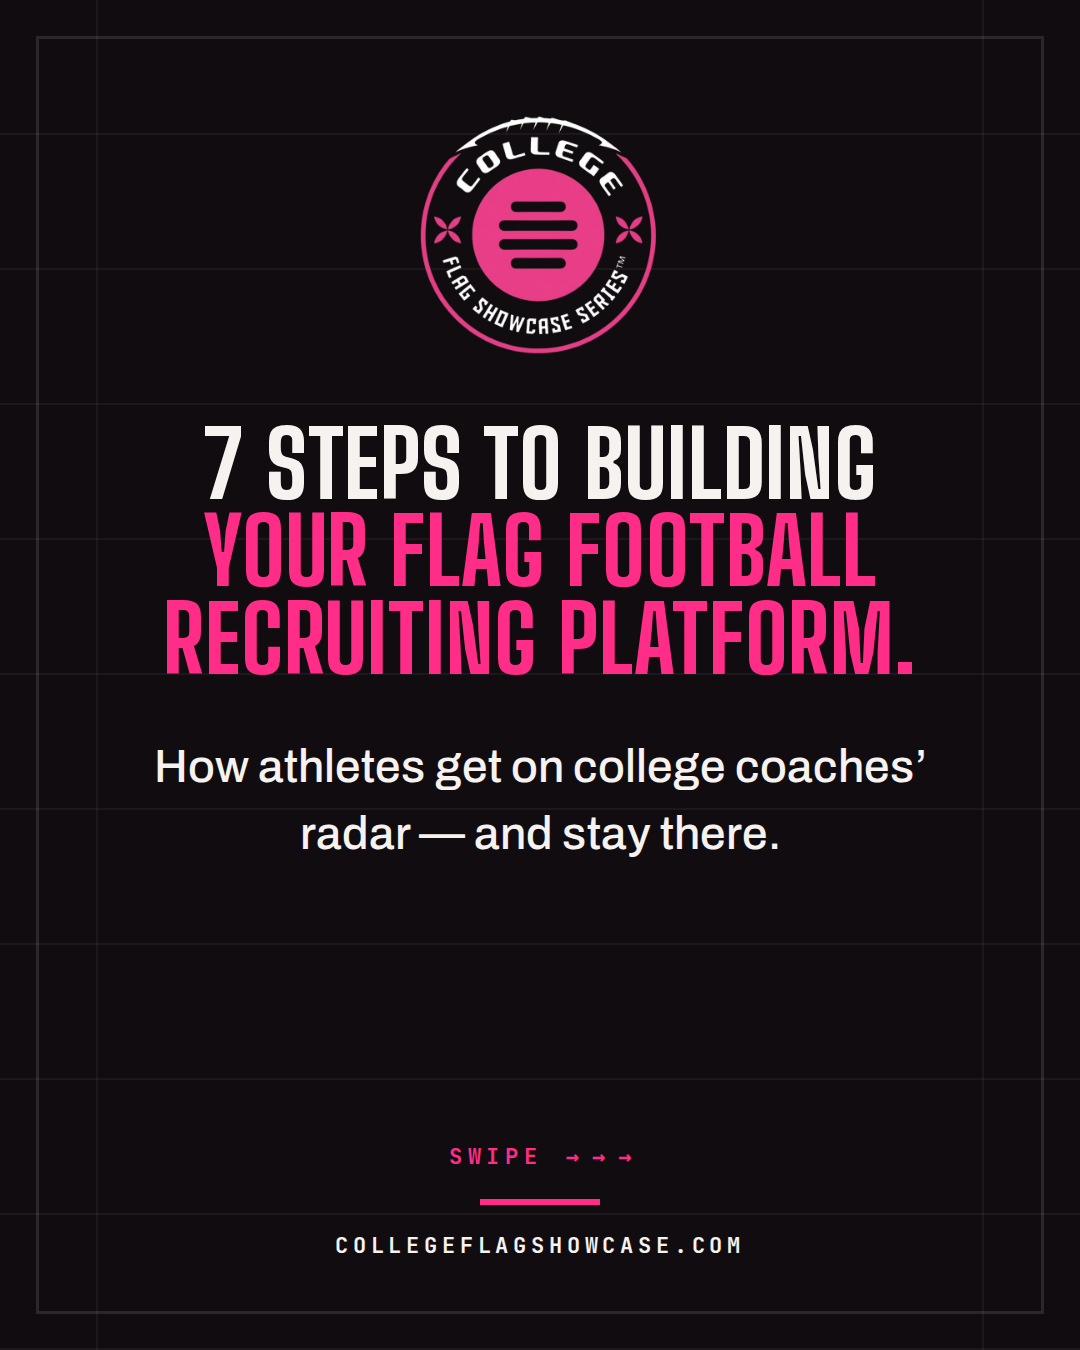
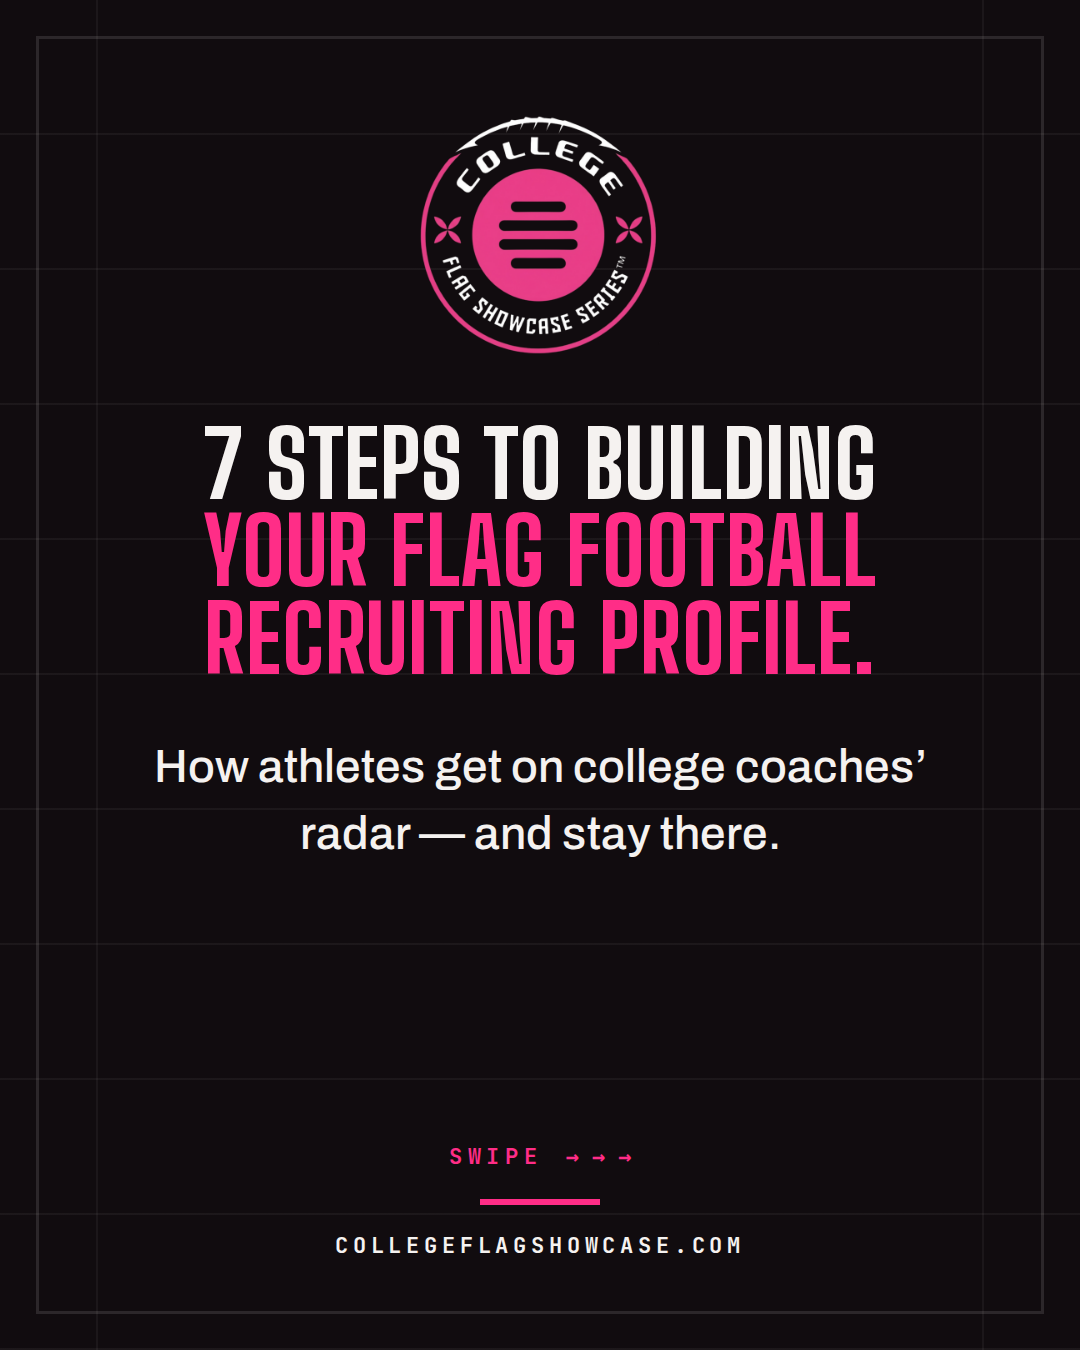
Retitle 7-steps carousel cover to recruiting profile
Claude-Session: https://claude.ai/code/session_019V32boShoBmRrwWenCPJFc

Changed region(s): [[0.1528, 0.4356, 0.8556, 0.4978]]

diff --git a/collateral/ig-carousel-7-steps.html b/collateral/ig-carousel-7-steps.html
@@ -2,7 +2,7 @@
 <html lang="en">
 <head>
 <meta charset="utf-8" />
-<title>IG Carousel — 7 Steps to Building Your Flag Football Recruiting Platform</title>
+<title>IG Carousel — 7 Steps to Building Your Flag Football Recruiting Profile</title>
 <style>
   @font-face{font-family:"Big Shoulders Display";src:url(fonts/big-shoulders.woff2) format("woff2");font-weight:100 900}
   @font-face{font-family:"Archivo";src:url(fonts/archivo.woff2) format("woff2");font-weight:100 900}
@@ -51,7 +51,7 @@
   <div class="yards"></div><div class="hash l"></div><div class="hash r"></div><div class="frame"></div>
   <div class="inner">
     <img class="logo" src="../public/logo.png" alt="College Flag Showcase Series" />
-    <h1 class="cover-title">7 steps to building<em>your flag football<br />recruiting platform.</em></h1>
+    <h1 class="cover-title">7 steps to building<em>your flag football<br />recruiting profile.</em></h1>
     <p class="cover-body">How athletes get on college coaches&rsquo; radar &mdash; and stay there.</p>
     <p class="swipe">Swipe<span>&nbsp;&rarr;&nbsp;&rarr;&nbsp;&rarr;</span></p>
     <div class="rule cover-rule"></div>
